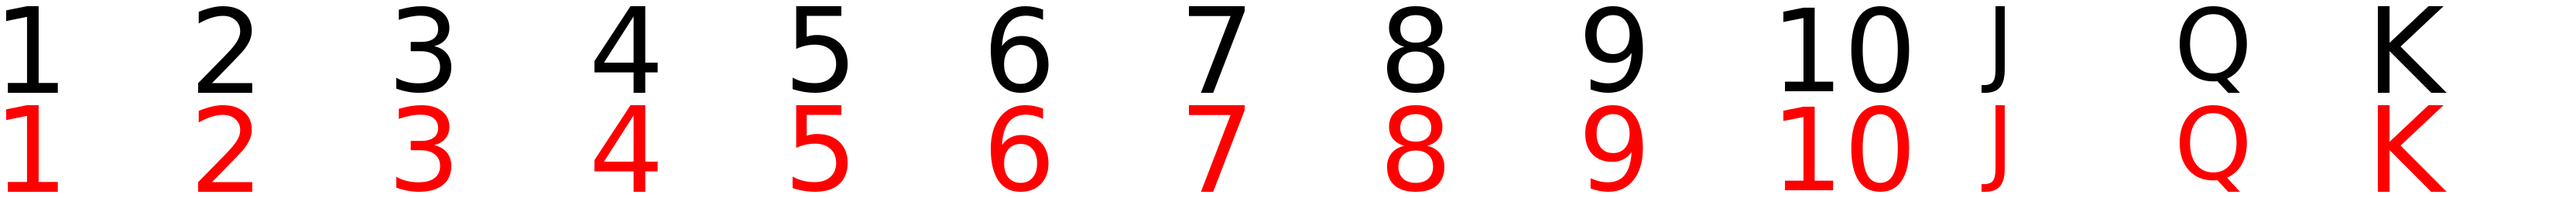
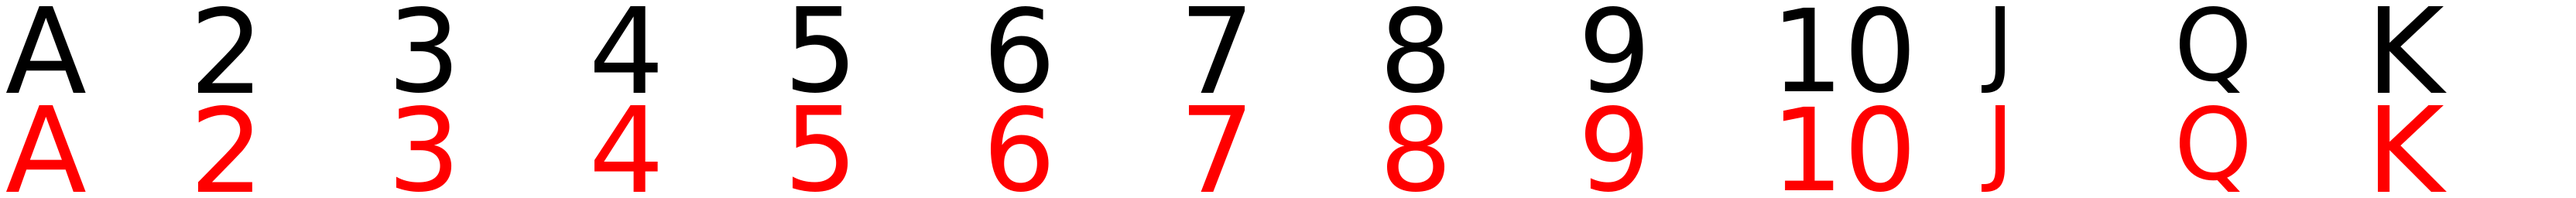
Mouse movement and fix ace sprite

Changed region(s): [[0.0, 0.5312, 0.0312, 0.9688], [0.0, 0.0312, 0.0312, 0.4688]]

diff --git a/spider.c b/spider.c
@@ -106,6 +106,8 @@ void shuffle(Card *deck, size_t num_cards) {
     }
 }
 
+
+
 int main(int argc, char* argv[]) {
     srand(time(NULL));
     int quit = FALSE;
@@ -162,17 +164,28 @@ int main(int argc, char* argv[]) {
                 break;
         }
 
+        Card active_card;
+        active_card.suit = 2;
+        active_card.rank = 4;
+        active_card.orientation = 1;
+        
+        int mouse_x, mouse_y;
+        SDL_GetMouseState(&mouse_x, &mouse_y);
+
         SDL_RenderClear(renderer);
 
         SDL_GetWindowSize(window, &screen_width, &screen_height);
         int card_width = screen_width / 10;
         int card_height = card_width * 7 / 5;
 
+        SDL_Rect active_card_rect = make_rect(mouse_x - card_width / 2, mouse_y - card_width / 2, card_width, card_height);
+
         for (int i = 0; i < 10; i++) {
             stacks[i].rect = make_rect(screen_width / 10 * i + 3, 3, screen_width / 10 - 5, screen_height - 5);
             SDL_Rect card_rect = make_rect(screen_width / 10 * i + 3, card_height + 5, card_width - 5, card_height - 5);
             draw_stack(renderer, card_textures, &stacks[i], &card_rect);
         }
+        draw_card(renderer, card_textures, &active_card, &active_card_rect);
 
         SDL_RenderPresent(renderer);
     }
